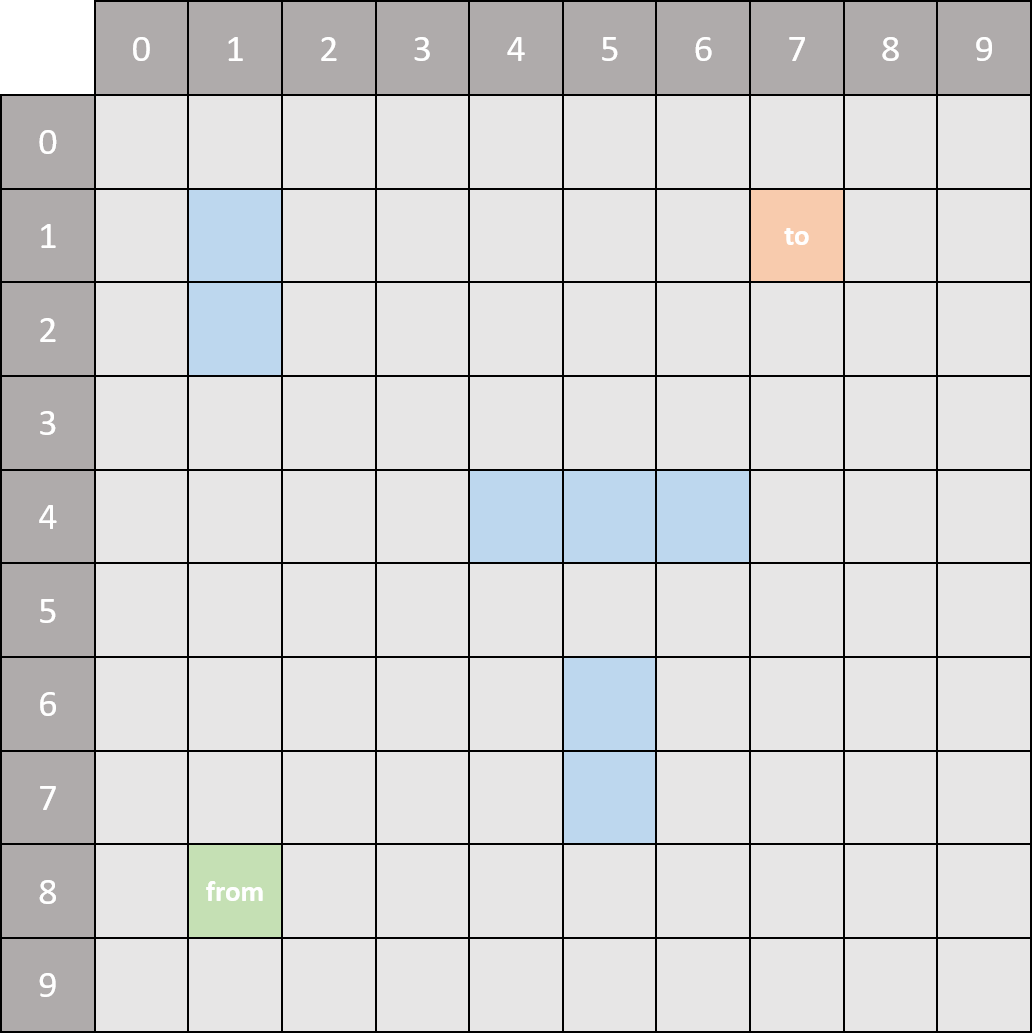
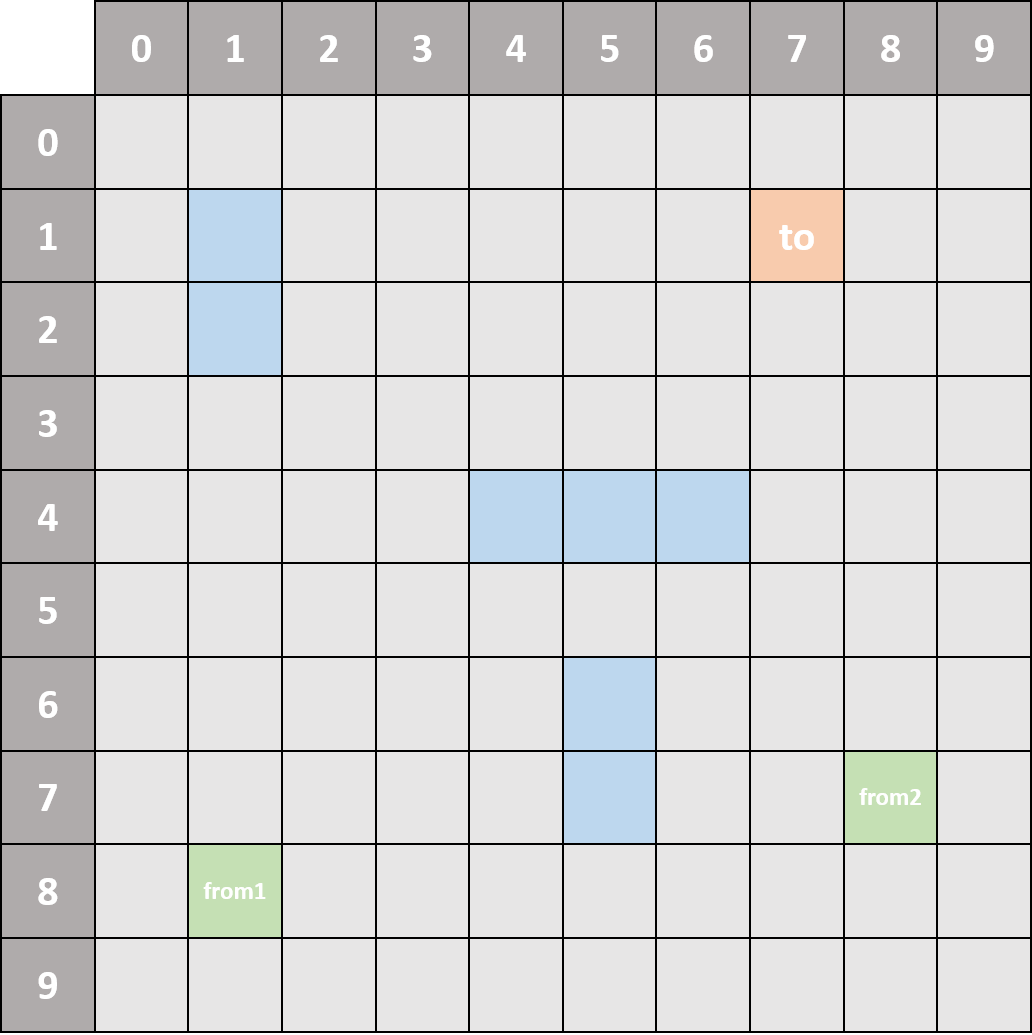
mcts

diff --git a/maze.py b/maze.py
@@ -1,30 +1,23 @@
-import numpy as np
-
 from config import *
 
 
 def condition(coordinate):
-    """check out-of-bound first"""
-    if (coordinate[0] < 0 or coordinate[0] == MAZE_ROWS) or (coordinate[1] < 0 or coordinate[1] == MAZE_COLS):
-        return False
-    else:
-        return False if coordinate in OBSTACLES_LINE else True
+    return False if (coordinate[0] < 0 or coordinate[0] == MAZE_ROWS) or (
+            coordinate[1] < 0 or coordinate[1] == MAZE_COLS) else False if coordinate in OBSTACLES_LINE else True
 
 
 class State:
-    def __init__(self, state=FROM):
-        self.maze = np.zeros([MAZE_ROWS, MAZE_COLS])
+    def __init__(self, state=FROM[0]):
         self.state = state
         self.terminal = False
-        self.determine = DETERMINISTIC
 
     def reward(self):
         if self.state == TO:
             return 1
         elif self.state in OBSTACLES_LINE:
-            return -0.5
+            return -1
         elif (self.state[0] < 0 or self.state[0] == MAZE_ROWS) or (self.state[1] < 0 or self.state[1] == MAZE_COLS):
-            return -0.5
+            return -1
         else:
             return 0
 
@@ -33,39 +26,20 @@ class State:
 
     def next_position(self, action):
         """action -> up down left right"""
-        if self.determine:
-            if action == "up":
-                temp_state = [self.state[0] - 1, self.state[1]]
-                if condition(temp_state):
-                    self.state = temp_state
-            elif action == "down":
-                temp_state = [self.state[0] + 1, self.state[1]]
-                if condition(temp_state):
-                    self.state = temp_state
-            elif action == "left":
-                temp_state = [self.state[0], self.state[1] - 1]
-                if condition(temp_state):
-                    self.state = temp_state
-            else:
-                temp_state = [self.state[0], self.state[1] + 1]
-                if condition(temp_state):
-                    self.state = temp_state
+        if action == "up":
+            temp_state = [self.state[0] - 1, self.state[1]]
+            if condition(temp_state):
+                self.state = temp_state
+        elif action == "down":
+            temp_state = [self.state[0] + 1, self.state[1]]
+            if condition(temp_state):
+                self.state = temp_state
+        elif action == "left":
+            temp_state = [self.state[0], self.state[1] - 1]
+            if condition(temp_state):
+                self.state = temp_state
         else:
-            raise NotImplementedError
+            temp_state = [self.state[0], self.state[1] + 1]
+            if condition(temp_state):
+                self.state = temp_state
         return self.state
-
-    # def visualize(self):
-    #     self.maze[self.state] = 1
-    #     for i in range(0, MAZE_ROWS):
-    #         print('-----------------')
-    #         out = '| '
-    #         for j in range(0, MAZE_COLS):
-    #             if self.maze[i, j] == 1:
-    #                 token = '*'
-    #             if self.maze[i, j] == -1:
-    #                 token = 'z'
-    #             if self.maze[i, j] == 0:
-    #                 token = '0'
-    #             out += token + ' | '
-    #         print(out)
-    #     print('-----------------')

diff --git a/monte_carlo_tree_search/tree_functions.py b/monte_carlo_tree_search/tree_functions.py
@@ -1,0 +1,76 @@
+import numpy as np
+
+from config import *
+
+
+def children(idx, graph): return list(graph.successors(idx))
+
+
+def parent(idx, graph): return list(graph.predecessors(idx))[0]
+
+
+def division(up, down): return float("Inf") if down == 0 else up / down
+
+
+def condition(coordinate):
+    return False if (coordinate[0] < 0 or coordinate[0] == MAZE_ROWS) or (
+            coordinate[1] < 0 or coordinate[1] == MAZE_COLS) else False if coordinate in OBSTACLES_LINE else True
+
+
+def transition(state, action):
+    if action == "up":
+        temp_state = [state[0] - 1, state[1]]
+        if condition(temp_state):
+            state = temp_state
+    elif action == "down":
+        temp_state = [state[0] + 1, state[1]]
+        if condition(temp_state):
+            state = temp_state
+    elif action == "left":
+        temp_state = [state[0], state[1] - 1]
+        if condition(temp_state):
+            state = temp_state
+    else:
+        temp_state = [state[0], state[1] + 1]
+        if condition(temp_state):
+            state = temp_state
+    return state
+
+
+def select(root_idx, graph, c=2):
+    score = [graph.edges[edge_idx]['Q'] + c * np.sqrt(division(graph.nodes[root_idx]['N'], graph.edges[edge_idx]['n']))
+             for edge_idx in list(graph.edges(root_idx))]
+    if score[0] == score[1] == score[2] == score[3]:
+        best_child = np.random.choice(children(root_idx, graph))
+    else:
+        best_child = children(root_idx, graph)[np.argmax(score)]
+    best_action = graph.edges[root_idx, best_child]['a']
+    return best_child, best_action
+
+
+def expand(idx, graph, setting='single'):
+    leaves = []
+    if setting == 'single':
+        actions = ['up', 'down', 'left', 'right']
+    else:
+        actions = [[first, second] for first in ['up', 'down', 'left', 'right'] for second in
+                   ['up', 'down', 'left', 'right']]
+    for action in actions:
+        next_state = transition(graph.nodes[idx]['state'], action)
+        new_child_idx = len(graph) + 1
+        leaves.append(new_child_idx)
+        graph.add_node(new_child_idx, state=next_state, N=0)
+        graph.add_edge(idx, len(graph), Q=0, n=0, a=action)
+    return leaves
+
+
+def backup(leaf_idx, graph, state):
+    while leaf_idx != 1:
+        parent_idx = parent(leaf_idx, graph)
+        graph.nodes[parent_idx]['N'] += 1
+        graph.edges[(parent_idx, leaf_idx)]['n'] += 1
+        graph.edges[(parent_idx, leaf_idx)]['Q'] = state.reward()
+        leaf_idx = parent_idx
+
+        if leaf_idx == 1:
+            break

diff --git a/greedy_agent.py b/greedy_agent.py
@@ -1,20 +1,20 @@
+import numpy as np
+
 from maze import *
 
 
-class Agent:
+class Greedy_Agent:
 
     def __init__(self):
         self.states = []
         self.actions = ["up", "down", "left", "right"]
         self.State = State()
-        self.lr = 0.2
+        self.gamma = 0.2
         self.epsilon = 0.3
-
-        # initial state reward
         self.state_values = {}
         for i in range(MAZE_ROWS):
             for j in range(MAZE_COLS):
-                self.state_values[i, j] = 0  # set initial value to 0
+                self.state_values[i, j] = 0
 
     def choose_action(self):
         """epsilon greedy"""
@@ -45,17 +45,17 @@ class Agent:
                 self.state_values[tuple(self.State.state)] = reward
                 print("Game End Reward", reward)
                 for s in reversed(self.states):
-                    reward = self.state_values[tuple(s)] + self.lr * (reward - self.state_values[tuple(s)])
+                    reward = self.state_values[tuple(s)] + self.gamma * (reward - self.state_values[tuple(s)])
                     self.state_values[tuple(s)] = round(reward, 3)
                 self.reset()
                 i += 1
             else:
                 action = self.choose_action()
                 self.states.append(self.State.next_position(action))
-                print("current position {} action {}".format(self.State.state, action))
+                print("current coordination {} action {}".format(self.State.state, action))
                 self.State = self.take_action(action)
                 self.State.is_terminal()
-                print("nxt state", self.State.state)
+                print("next state", self.State.state)
                 print("------------------------------------------")
 
     def show_values(self):

diff --git a/monte_carlo_tree_search/tree.py b/monte_carlo_tree_search/tree.py
@@ -1,0 +1,29 @@
+import networkx as nx
+
+from maze import *
+from monte_carlo_tree_search.tree_functions import *
+
+
+class Tree:
+    def __init__(self, agent_id=0):
+        self.g = nx.DiGraph()
+        self.g.add_node(1, state=FROM[agent_id], N=0)
+        self.maze = State()
+        self.action_sequence = []
+
+    def grow(self):
+        node_idx = 1
+        _ = expand(node_idx, self.g)
+        while self.g.nodes[node_idx]['state'] != TO:
+            prev_state = self.g.nodes[node_idx]['state']
+            node_idx, action = select(node_idx, self.g)
+            self.action_sequence.append(action)
+            next_state = transition(prev_state, action)
+            self.maze = State(next_state)
+            print("took action \"{}\" from {} & now at {}".format(action, prev_state, next_state))
+            leaves = expand(node_idx, self.g)
+            for leaf in leaves:
+                backup(leaf, self.g, self.maze)
+
+    def route(self):
+        return self.action_sequence

diff --git a/main.py b/main.py
@@ -1,6 +1,14 @@
-from agent import *
+from greedy_agent import *
+from monte_carlo_tree_search.tree import *
 
 if __name__ == "__main__":
-    ag = Agent()
-    ag.play(rounds=1000)
-    print(ag.show_values())
+    option = input("tree or greedy: ")
+    if option == "tree":
+        tree = Tree()
+        tree.grow()
+        route = tree.route()
+        print(len(route))
+    else:
+        greedy_agent = Greedy_Agent()
+        greedy_agent.play(rounds=100)
+        print(greedy_agent.show_values())

diff --git a/config.py b/config.py
@@ -1,8 +1,7 @@
 MAZE_ROWS = 10
 MAZE_COLS = 10
-FROM = [8, 1]
+FROM = [[8, 1], [7, 8]]
 TO = [1, 7]
-DETERMINISTIC = True
 OBSTACLES = [[[1, 1], [2, 1]],
              [[4, 4], [4, 5], [4, 6]],
              [[6, 5], [7, 5]]]
